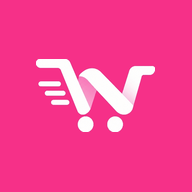
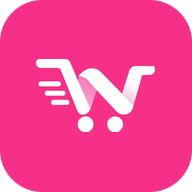
Add files via upload

diff --git a/tokri-standalone.html b/tokri-standalone.html
@@ -3442,7 +3442,7 @@ function buildHome(main){
     <div class="store-footer" id="adminTapZone">
       <div class="sf-brand" id="footAppName">${appName}</div>
       <div class="sf-line">&copy; 2026 Nexcart &middot; All rights reserved</div>
-      <div class="sf-ver">v31</div>
+      <div class="sf-ver">v35</div>
     </div>
   `;
 
@@ -5082,7 +5082,7 @@ function renderProfilePage(main){
     <div class="store-footer" id="adminTapZone">
       <div class="sf-brand" id="footAppName">${(typeof ncBrandName === 'function') ? ncBrandName() : 'Nexcart'}</div>
       <div class="sf-line">&copy; 2026 Nexcart &middot; All rights reserved</div>
-      <div class="sf-ver">v31</div>
+      <div class="sf-ver">v35</div>
     </div>
   `;
   updateInstallRow();
@@ -11060,6 +11060,128 @@ html:not([data-theme="dark"]) .bs-brand{ border-color:#F0CFDD; }
 /* ---------------------------------------------- 13. footer + bottom nav */
 html:not([data-theme="dark"]) .store-footer{ border-top:1px solid var(--hairline); }
 html:not([data-theme="dark"]) .bottom-nav{ border-top:1px solid var(--hairline); }
+</style>
+
+<style id="nexcart-theme-v32">
+/* ============================================================
+   NEXCART v32 — the OTHER tabs, brought up to the Home page
+   ------------------------------------------------------------
+   Home was re-skinned in v30/v31; Categories / Cart / Orders /
+   Profile were still plain white, so they did not match.
+
+     - the app shell now carries the same soft pink wash as Home,
+       so every tab is tinted instead of flat white
+     - Categories page: pink sidebar, ROSE-GOLD ring around the
+       circular sub-category photos, rose-gold rule before every
+       heading, white product tiles with a rose edge
+     - Profile header: the same pink gradient as the top bar
+
+   Light mode only. Values are the shop's own.
+   ============================================================ */
+
+/* -- shell wash: every tab sits on the same tint as Home -- */
+html:not([data-theme="dark"]) .app-shell{
+  background: linear-gradient(180deg,#FFE7F1 0px, #FFF4F9 300px, #FFFFFF 700px);
+}
+
+/* ---------------------------------------------- 1. categories page */
+html:not([data-theme="dark"]) .catpage{ background:transparent; }
+
+html:not([data-theme="dark"]) .catpage-side{
+  background:linear-gradient(180deg,#FFF0F7 0%, #FFF8FB 55%, #FFFFFF 100%);
+  border-right:1px solid var(--hairline);
+}
+html:not([data-theme="dark"]) .catpage-item.on{
+  background:#fff;
+  border-left-color:transparent;
+  position:relative;
+  box-shadow:0 2px 10px rgba(200,20,90,.10);
+}
+html:not([data-theme="dark"]) .catpage-item.on::before{
+  content:''; position:absolute; left:0; top:7px; bottom:7px; width:3px;
+  border-radius:0 3px 3px 0;
+  background:linear-gradient(180deg,#F7D570 0%, #FF6FA5 52%, #D6114F 100%);
+}
+html:not([data-theme="dark"]) .catpage-item .cpi-img{
+  background:linear-gradient(148deg,#FFD9E8 0%, #F7D570 34%, #D79B1E 62%, #FF9FC4 100%);
+  padding:2px;
+  box-shadow:0 2px 8px rgba(190,90,40,.18);
+}
+html:not([data-theme="dark"]) .catpage-item .cpi-img img{ border-radius:9px; }
+html:not([data-theme="dark"]) .catpage-item span,
+html:not([data-theme="dark"]) .catpage-item.on span{ color:var(--rose-800); }
+html:not([data-theme="dark"]) .catpage-item.on span{ font-weight:800; }
+
+/* rose-gold rule before both heading styles on this page */
+html:not([data-theme="dark"]) .catpage-h,
+html:not([data-theme="dark"]) .sub-group-h{
+  color:var(--rose-800);
+  display:flex; align-items:center; gap:8px;
+}
+html:not([data-theme="dark"]) .catpage-h::before,
+html:not([data-theme="dark"]) .sub-group-h::before{
+  content:''; flex:none; width:4px; height:15px; border-radius:3px;
+  background:linear-gradient(180deg,#F7D570 0%, #FF6FA5 55%, #D6114F 100%);
+}
+
+/* circular sub-category photos get the rose-gold ring */
+html:not([data-theme="dark"]) .cat-tile-round img,
+html:not([data-theme="dark"]) .cat-tile-round .ctl-emoji,
+html:not([data-theme="dark"]) .cat-tile-round .ctl-icon{
+  padding:2px;
+  background:linear-gradient(148deg,#FFD9E8 0%, #F7D570 34%, #D79B1E 62%, #FF9FC4 100%);
+  box-shadow:0 3px 10px rgba(190,90,40,.20);
+}
+html:not([data-theme="dark"]) .cat-tile-round span{ color:var(--rose-800); }
+
+/* product tiles on this page: white card with a rose edge */
+html:not([data-theme="dark"]) .catpage-grid:not(.sub-grid) .cat-tile-lg{
+  background:#fff;
+  box-shadow:0 2px 9px rgba(200,20,90,.09), 0 0 0 1px rgba(240,207,221,.95);
+}
+
+/* ---------------------------------------------- 2. profile header */
+html:not([data-theme="dark"]) .profile-header{
+  background:linear-gradient(130deg,#FF7FAE 0%, #F04781 45%, #B8114F 100%);
+  box-shadow:0 10px 24px rgba(190,16,74,.20);
+}
+</style>
+
+<style id="nexcart-theme-v35">
+/* ============================================================
+   NEXCART v35 — splash / launch screen, WHITE + rounded icon
+   ------------------------------------------------------------
+   The owner's pick: a plain white field with the icon sitting on
+   it as a rounded tile.
+
+     1. manifest.json background_color is #FFFFFF. It was #FF3F6C,
+        which was the same pink as the icon and made the icon vanish.
+     2. icon-192.png and icon-512.png now carry their own rounded
+        corners (transparent outside a 22% radius), so the icon
+        shows as a rounded tile instead of a hard square.
+     3. the in-app splash is white to match the launch screen, with
+        the mark on a rounded pink tile and the wordmark in deep
+        rose, so the two screens flow into each other.
+
+   Light mode only. Splash-with-a-photo (.has-media) is untouched.
+   ============================================================ */
+
+html:not([data-theme="dark"]) .splash:not(.has-media){ background:#FFFFFF; }
+/* no sparkle dust on a white field */
+html:not([data-theme="dark"]) .splash:not(.has-media)::before{ content:none; }
+
+/* the mark sits on a rounded pink tile, matching the app icon */
+html:not([data-theme="dark"]) .splash-logo-wrap{
+  background:linear-gradient(150deg,#FF7FAE 0%, #F63088 52%, #C2185B 100%);
+  box-shadow:0 12px 30px rgba(200,20,90,.26), inset 0 0 0 1px rgba(255,255,255,.35);
+}
+html:not([data-theme="dark"]) .splash-inner{ color:#8A0A3C; }
+html:not([data-theme="dark"]) .splash-title{
+  font-size:26px; font-weight:800; letter-spacing:5px; text-transform:uppercase;
+  color:#8A0A3C;
+}
+html:not([data-theme="dark"]) .splash-tagline{ color:#B8114F; opacity:1; }
+html:not([data-theme="dark"]) .splash-loader span{ background:#FF3F6C; box-shadow:none; }
 </style>
 
 </body>

diff --git a/sw.js b/sw.js
@@ -19,9 +19,20 @@
    the new design instead of serving the old one.
    v31 (2026-10-06) - category-tile ring switched from gold to pink
    (owner's pick). CACHE bumped again.
+   v32 (2026-10-06) - Categories / Cart / Orders / Profile tabs themed
+   to match Home. CACHE bumped again.
+   v33 (2026-10-06) - splash screen rebuilt, and manifest.json
+   background_color changed for the installed-app launch screen.
+   CACHE bumped again.
+   v34 (2026-10-06) - splash + launch screen moved to DEEP WINE
+   (#6E0526), the owner's pick from four rendered options. CACHE
+   bumped again.
+   v35 (2026-10-06) - back to a WHITE launch/splash field, with the
+   icon rounded (icon-192/512 now have transparent corners). CACHE
+   bumped again.
    ============================================================ */
 
-const CACHE = 'nexcart-v31';
+const CACHE = 'nexcart-v35';
 const ASSETS = [
   './',
   './tokri-standalone.html',
